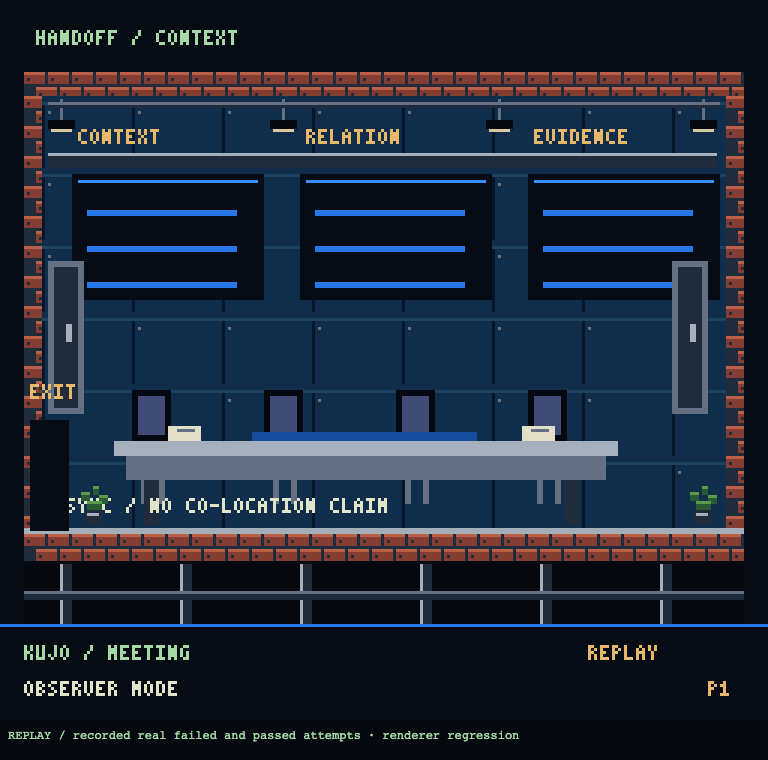
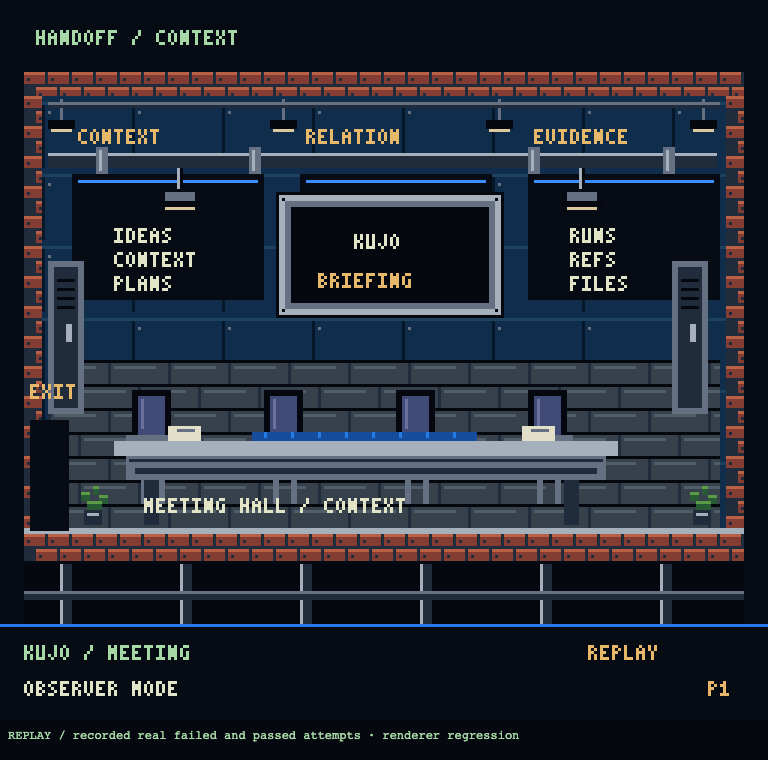
Give Meeting Hall an industrial briefing room interior

diff --git a/packages/renderer-pixi/scenery.ts b/packages/renderer-pixi/scenery.ts
@@ -275,18 +275,48 @@ export function consoleDesk(g: Graphics, x: number, y: number, width = 30) {
 }
 
 export function briefingRoom(g: Graphics) {
+  // Fixed room materials and an empty briefing table carry no meeting status.
+  rect(g, 16, 120, 224, 56, 0x36414c);
+  for (let row = 0; row < 7; row++) {
+    const y = 120 + row * 8;
+    rect(g, 16, y, 224, 1, P.ink);
+    for (let x = 16 + (row % 2) * 10; x < 238; x += 20) {
+      rect(g, x, y + 1, 1, 7, P.mortar);
+      rect(g, x + 2, y + 2, Math.min(14, 238 - x), 1, 0x515d69);
+    }
+  }
+  // Riveted wall plaque, with lettering projected by the renderer.
+  rect(g, 92, 64, 76, 42, P.ink);
+  rect(g, 93, 65, 74, 40, P.light);
+  rect(g, 95, 67, 70, 36, P.stone);
+  rect(g, 97, 69, 66, 32, P.ink);
+  for (const x of [94, 165])
+    for (const y of [66, 103]) rect(g, x, y, 1, 1, P.ink);
+  // Utility fittings and steady pendant lights frame the wall stations.
+  for (const x of [59, 193]) {
+    rect(g, x, 53, 2, 11, P.ink);
+    rect(g, x, 54, 1, 9, P.light);
+    rect(g, x - 4, 64, 10, 3, P.stone);
+    rect(g, x - 6, 67, 14, 2, P.ink);
+    rect(g, x - 4, 69, 10, 1, 0xd9c99c);
+  }
   // Empty chairs are fixtures, not invented participants or co-location.
   for (const x of [44, 88, 132, 176]) {
     rect(g, x, 130, 13, 21, P.ink);
     rect(g, x + 2, 132, 9, 13, 0x414b77);
+    rect(g, x + 3, 133, 1, 10, 0x6b719b);
+    rect(g, x - 2, 145, 17, 2, P.stone);
     rect(g, x + 3, 151, 2, 17, P.stone);
     rect(g, x + 9, 151, 2, 17, P.stone);
   }
   rect(g, 38, 147, 168, 5, P.light);
   rect(g, 42, 152, 160, 8, P.stone);
+  rect(g, 43, 153, 158, 1, P.mortar);
+  rect(g, 45, 156, 154, 2, P.mortar);
   rect(g, 48, 160, 5, 15, P.mortar);
   rect(g, 188, 160, 5, 15, P.mortar);
   rect(g, 84, 144, 75, 3, P.blue);
+  for (let x = 88; x < 156; x += 9) rect(g, x, 144, 1, 2, P.glass);
   for (const x of [56, 174]) {
     rect(g, x, 142, 11, 5, 0xe2dfc9);
     rect(g, x + 3, 143, 6, 1, P.stone);
@@ -294,10 +324,15 @@ export function briefingRoom(g: Graphics) {
   // Structural utility pipes and lockers frame the shared work table.
   rect(g, 16, 51, 223, 5, P.mortar);
   rect(g, 16, 51, 223, 1, P.light);
+  for (const x of [32, 83, 176, 221]) {
+    rect(g, x, 49, 4, 9, P.stone);
+    rect(g, x + 1, 50, 1, 7, P.light);
+  }
   for (const x of [16, 224]) {
     rect(g, x, 87, 12, 51, P.stone);
     rect(g, x + 2, 89, 8, 47, P.mortar);
     rect(g, x + 6, 108, 2, 6, P.light);
+    for (let y = 93; y < 104; y += 3) rect(g, x + 3, y, 6, 1, P.ink);
   }
 }
 

diff --git a/packages/renderer-pixi/index.ts b/packages/renderer-pixi/index.ts
@@ -413,15 +413,25 @@ export class CityRenderer {
         box(g, x, 58, dispatch ? 32 : 64, dispatch ? 59 : 42, C.black);
         box(g, x + 2, 60, dispatch ? 28 : 60, 1, C.blue);
         text(g, label, x + 2, 43, C.gold);
-        for (let y = 70; y < (dispatch ? 110 : 96); y += 12)
-          box(g, x + 5, y, dispatch ? 21 : 50, 2, C.teal);
+        if (dispatch)
+          for (let y = 70; y < 110; y += 12) box(g, x + 5, y, 21, 2, C.teal);
         if (dispatch) consoleDesk(g, x + 1, 145, 28);
       });
-      if (meeting) briefingRoom(g);
+      if (meeting) {
+        briefingRoom(g);
+        text(g, "KUJO", 118, 78, C.white);
+        text(g, "BRIEFING", 106, 91, C.gold);
+        ["IDEAS", "CONTEXT", "PLANS"].forEach((label, i) =>
+          text(g, label, 38, 76 + i * 8, C.white),
+        );
+        ["RUNS", "REFS", "FILES"].forEach((label, i) =>
+          text(g, label, 190, 76 + i * 8, C.white),
+        );
+      }
       text(
         g,
-        meeting ? "ASYNC / NO CO-LOCATION CLAIM" : "SOURCE-OWNED TASK STATE",
-        18,
+        meeting ? "MEETING HALL / CONTEXT" : "SOURCE-OWNED TASK STATE",
+        meeting ? 48 : 18,
         166,
         C.white,
       );

diff --git a/evidence/cityscape/meeting-review.md b/evidence/cityscape/meeting-review.md
@@ -1,0 +1,7 @@
+# Meeting Hall visual review — 2026-09-08
+
+Original pixel scenery now includes a riveted Kujo briefing plaque, utility clamps, steady pendant lights, staggered floor tiles, chair highlights/armrests, table bevels and locker ventilation. Static wall lettering replaces placeholder blue bars. The floor title describes the room; the DOM inspector retains the actual relationship/evidence details.
+
+No participants, conversations or operations were added. Empty seats remain furniture. Station IDs, portals, routes, operation reduction and asynchronous context-transfer behavior are unchanged. Artwork uses integer geometry, with no protected game pixels extracted.
+
+The cityscape browser proof re-rendered all scenes from retained real history. It passed with zero page errors, Dojo failure/pass glyph counts 34/32, and same-order replacement clearing prior outcomes. Meeting screenshot reviewed at 3× scale: the central sign and wall lettering are readable, floor title moved clear of the plant, and entrance remains visible. Typecheck/build passed during the art iteration. This is renderer evidence, not a new live operation or native visibility qualification. Overall reference fidelity remains incomplete.
